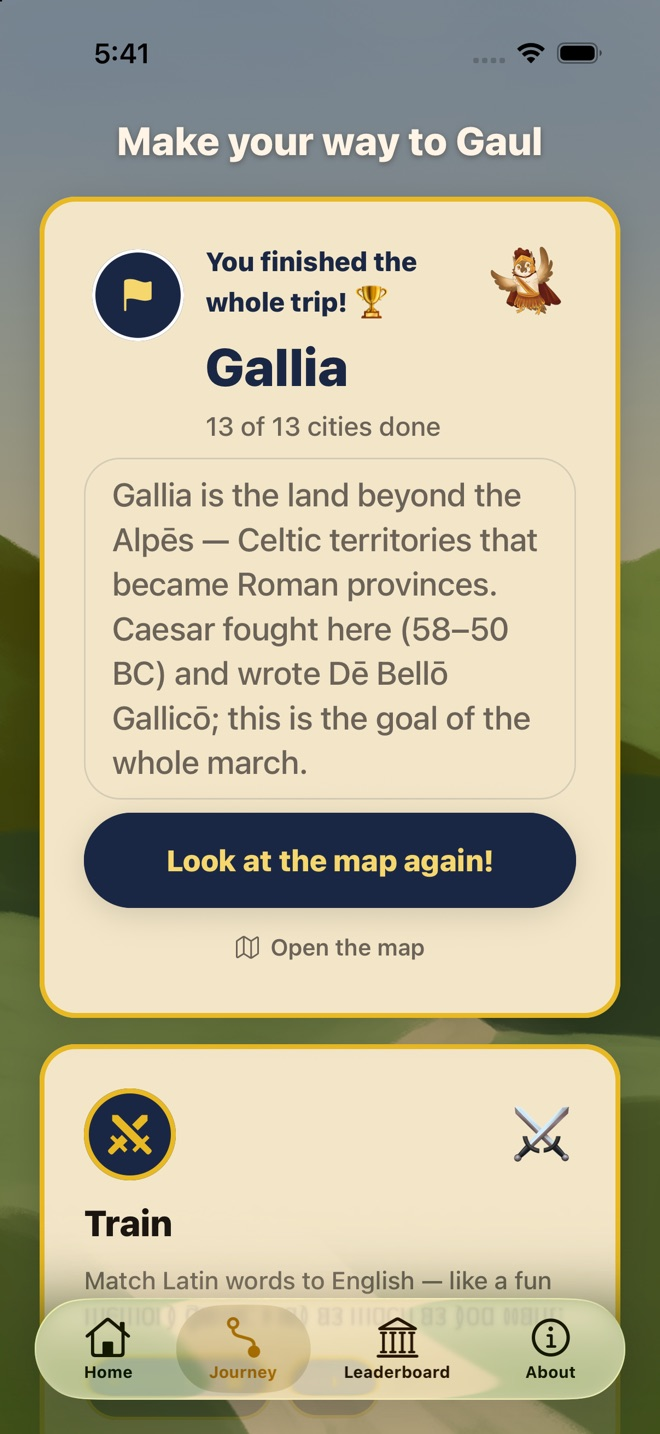
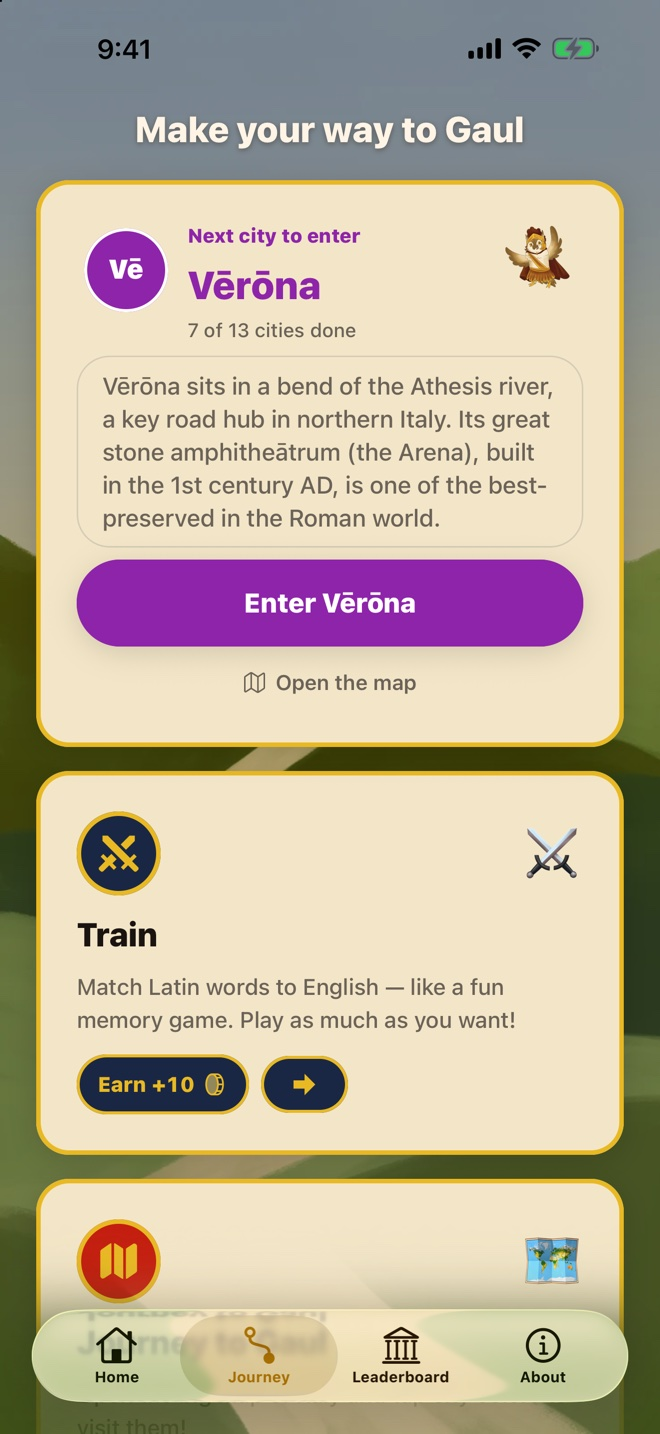
Latin game page: match the current app (13 stops, fresh screenshots)
- Thirteen stops: Pīsae and Venetiae replace Castra I/II as the camp-outs, Venetiae before Vērōna, Rhodanus added before Gallia
- City and camp-out copy matches levels/days and the verb camps; drops 'six words'
- How you learn: add adjectives, prepositions/conjunctions/adverbs and the march home; update sentences and training
- Colosseum: coins per level/city cleared, board shows chosen name, portrait and progress
- Age rating 9+ to match the App Store
- Five screenshots recaptured from the current app (origin/main 88f0de7) on iPhone 17 Pro Max

diff --git a/src/app/latin-game/page.tsx b/src/app/latin-game/page.tsx
@@ -24,26 +24,31 @@ const LEARNING = [
   { icon: '🃏', title: 'Vocabulary cards', desc: 'Match the Latin word to its English meaning. Correct macrons throughout, so students learn the word as it is actually written.' },
   { icon: '⚖', title: 'Case challenges', desc: 'Pick the correct case form of a noun from real, correctly-declined options — not near-misses invented to trick you.' },
   { icon: '🔤', title: 'Verb endings', desc: 'Connect each personal ending — ō, s, t, mus, tis, nt — to its person and number until it is second nature.' },
-  { icon: '📖', title: 'Sentence reading', desc: 'Put the grammar together and read short, correct Latin sentences by the end of the march.' },
-  { icon: '⚔', title: 'Training mode', desc: 'Quick matching rounds any time, for the days when a full city is more than you have time for.' },
+  { icon: '🏷', title: 'Adjectives', desc: 'At Mediōlānum, learn the adjectives and drill their endings, then meet them again in the sentences at Genua.' },
+  { icon: '🔗', title: 'Prepositions, conjunctions & adverbs', desc: 'At Augusta Taurīnōrum, match the little words that join Latin together, then watch them join whole sentences at Rhodanus.' },
+  { icon: '📖', title: 'Sentence reading', desc: 'From Vērōna on, read short Latin sentences built only from words you have already learned, and pick what they mean.' },
+  { icon: '⚔', title: 'Training mode', desc: 'Practice any time: word matching, noun and adjective endings, verb endings, parts of speech and sentences, for the days when a full city is more than you have time for.' },
   { icon: '🗓', title: 'Word of the day', desc: 'One new word on the home screen every day, to keep vocabulary ticking over between sessions.' },
+  { icon: '🧭', title: 'The march home', desc: 'Reach Gallia and the road turns back: march every stop in reverse to Rōma, reviewing the whole journey on the way.' },
 ]
 
-/* The twelve stops of the march, in order, exactly as the app names them:
-   classical Latin nominatives with macrons. Two of them are camp rests
-   (Castra), not cities, and the last one is the goal. */
+/* The thirteen stops of the march, in order, exactly as the app names them:
+   classical Latin nominatives with macrons. Two of them are camp-outs
+   (Pīsae and Venetiae, where the legion learns its verbs), and the last one
+   is the goal. */
 const STOPS = [
   { name: 'Rōma' },
   { name: 'Vēiī' },
   { name: 'Clūsium' },
-  { name: 'Castra I', kind: 'camp rest' },
+  { name: 'Pīsae', kind: 'camp-out' },
   { name: 'Florentia' },
   { name: 'Bonōnia' },
+  { name: 'Venetiae', kind: 'camp-out' },
   { name: 'Vērōna' },
-  { name: 'Castra II', kind: 'camp rest' },
   { name: 'Mediōlānum' },
   { name: 'Genua' },
   { name: 'Augusta Taurīnōrum' },
+  { name: 'Rhodanus' },
   { name: 'Gallia', kind: 'the goal' },
 ]
 
@@ -199,10 +204,10 @@ export default function JamWithLatin() {
               <Image src={shotJourney} alt="The journey hub: next city to enter, the map, and training" sizes="228px" placeholder="blur" />
             </div>
             <div className="phone lift">
-              <Image src={shotHome} alt="Home screen: your legionary, current city, XP, and the word of the day" sizes="264px" priority />
+              <Image src={shotHome} alt="Home screen: your current city, coins, the leaderboard race, and the word of the day" sizes="264px" priority />
             </div>
             <div className="phone">
-              <Image src={shotCase} alt="A matching challenge: pair each Latin preposition with its English meaning" sizes="228px" placeholder="blur" />
+              <Image src={shotCase} alt="A case challenge: choose the dative plural form of portus, harbor" sizes="228px" placeholder="blur" />
             </div>
           </div>
         </div>
@@ -213,12 +218,13 @@ export default function JamWithLatin() {
         <div className="wrap split">
           <div className="copy reveal">
             <div className="kicker">The journey</div>
-            <h2>Twelve stops, north across Italy.</h2>
+            <h2>Thirteen stops, north across Italy.</h2>
             <p className="lede">
               Every city on the road teaches one piece of the classical curriculum, and the challenge
-              grows as the legion marches. Clear all six words in a city to move on. Between the
-              hard stretches, the <b>camp-outs</b> stop and review everything learned so far —
-              which is where the grammar actually sticks.
+              grows as the legion marches. Each city is split into levels, played a day at a time;
+              clear every level to march on. Twice on the road the legion makes camp, at Pīsae and
+              Venetiae. Each <b>camp-out</b> reviews the noun endings learned so far, then drills
+              the present-tense verbs — which is where the grammar actually sticks.
             </p>
             <p className="lede">
               The map is a real map of Italy, so students can see where Vēiī sits relative to Rōma,
@@ -237,7 +243,7 @@ export default function JamWithLatin() {
           </div>
           <div className="reveal">
             <div className="phone lift" style={{ margin: '0 auto' }}>
-              <Image src={shotMap} alt="The campaign map of Italy with twelve numbered stops from Rōma north to Gallia" sizes="264px" placeholder="blur" />
+              <Image src={shotMap} alt="The campaign map of Italy: the road from Rōma north to Gallia, with seven stops cleared and Vērōna next" sizes="264px" placeholder="blur" />
             </div>
           </div>
         </div>
@@ -248,7 +254,7 @@ export default function JamWithLatin() {
         <div className="wrap">
           <div className="reveal" style={{ textAlign: 'center' }}>
             <div className="kicker">How you learn</div>
-            <h2>Six ways to drill the same grammar.</h2>
+            <h2>Nine ways to drill the grammar.</h2>
             <p className="lede" style={{ margin: '16px auto 0', textAlign: 'center' }}>
               Enough variety that practice does not feel like a worksheet.
             </p>
@@ -279,7 +285,7 @@ export default function JamWithLatin() {
           </div>
           <div className="reveal">
             <div className="phone lift" style={{ margin: '0 auto' }}>
-              <Image src={shotCase} alt="A matching challenge pairing Latin prepositions with English meanings" sizes="264px" placeholder="blur" />
+              <Image src={shotCase} alt="A case challenge: four correctly-declined forms of portus to choose from" sizes="264px" placeholder="blur" />
             </div>
           </div>
         </div>
@@ -292,13 +298,15 @@ export default function JamWithLatin() {
             <div className="kicker">The Colosseum</div>
             <h2>Something to march for.</h2>
             <p className="lede">
-              Every correct answer earns XP, and the arena standings show who is furthest along the
-              road to Gallia. It turns solitary vocabulary practice into a friendly contest — the part
-              that keeps students coming back without any prompting from a parent.
+              Every level and city cleared earns coins, and the arena standings show who has earned
+              the most on the road to Gallia, and how many of the thirteen cities each legionary has
+              cleared. It turns solitary vocabulary practice into a friendly contest — the part that
+              keeps students coming back without any prompting from a parent.
             </p>
             <p className="lede">
-              The leaderboard shows usernames and scores. Nothing else, because the app never asks
-              for anything else.
+              The leaderboard shows the name each student chooses to show, a picture picked from the
+              app&rsquo;s own portraits, and their progress. Nothing else, because the app only asks
+              for a username, a six-digit PIN, and that name.
             </p>
           </div>
           <div className="reveal">
@@ -317,20 +325,20 @@ export default function JamWithLatin() {
         </div>
         <div className="gallery">
           <div className="gshot">
-            <Image src={shotHome} alt="Home screen with legionary, city progress and word of the day" sizes="208px" placeholder="blur" />
-            <div className="cap">Home — your legionary &amp; the word of the day</div>
+            <Image src={shotHome} alt="Home screen with city progress, coins, the leaderboard race and the word of the day" sizes="208px" placeholder="blur" />
+            <div className="cap">Home — your progress &amp; the word of the day</div>
           </div>
           <div className="gshot">
             <Image src={shotJourney} alt="Journey hub with the next city and training" sizes="208px" placeholder="blur" />
             <div className="cap">Journey — next city, map, training</div>
           </div>
           <div className="gshot">
-            <Image src={shotMap} alt="Map of Italy with the twelve numbered stops" sizes="208px" placeholder="blur" />
-            <div className="cap">The march — twelve real stops</div>
+            <Image src={shotMap} alt="Map of Italy with the thirteen stops from Rōma to Gallia" sizes="208px" placeholder="blur" />
+            <div className="cap">The march — thirteen real stops</div>
           </div>
           <div className="gshot">
-            <Image src={shotCase} alt="A matching challenge: Latin prepositions and English meanings" sizes="208px" placeholder="blur" />
-            <div className="cap">Cities — matching challenges to clear</div>
+            <Image src={shotCase} alt="A case challenge: pick the dative plural of portus" sizes="208px" placeholder="blur" />
+            <div className="cap">Cities — matching &amp; case challenges to clear</div>
           </div>
           <div className="gshot">
             <Image src={shotLeaderboard} alt="Arena standings leaderboard" sizes="208px" placeholder="blur" />
@@ -367,7 +375,7 @@ export default function JamWithLatin() {
             <PlayStoreButton />
           </div>
           <p className="note" style={{ color: 'rgba(255,255,255,0.5)' }}>
-            On the App Store now for iPhone and iPad. Android coming soon to Google Play. Education · Ages 4+.
+            On the App Store now for iPhone and iPad. Android coming soon to Google Play. Education · Ages 9+.
           </p>
         </div>
       </div>
